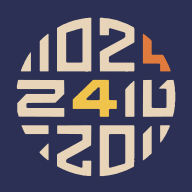
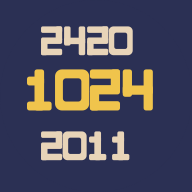
Lay the portal mark out as 2420 / 1024 / 2011.
The circular navy disc stays. The middle 1024 is larger and gold; the cream rows above and below are 2420 and 2011.

diff --git a/game/gamebgp/admin.js b/game/gamebgp/admin.js
@@ -186,7 +186,7 @@ function renderLogin(errorMsg = "") {
     <div class="login-wrap">
       <div class="card login-card">
         <div class="title-row">
-          <img class="site-logo" src="/icons/apps/logo.svg?v=2" width="44" height="44" alt="">
+          <img class="site-logo" src="/icons/apps/logo.svg?v=3" width="44" height="44" alt="">
           <h1>管理后台</h1>
         </div>
         <p class="sub">门户与游戏数据管理。会话 12 小时有效。</p>
@@ -828,7 +828,7 @@ function paintShell() {
     <div class="wrap">
       <div class="topbar">
         <div class="title-row">
-          <img class="site-logo" src="/icons/apps/logo.svg?v=2" width="48" height="48" alt="">
+          <img class="site-logo" src="/icons/apps/logo.svg?v=3" width="48" height="48" alt="">
           <div class="title-text">
             <h1>管理后台</h1>
             <p class="user-line">${esc(state.me.username)}</p>

diff --git a/game/index.html b/game/index.html
@@ -8,7 +8,7 @@
     <meta name="apple-mobile-web-app-status-bar-style" content="default">
     <meta name="apple-mobile-web-app-title" content="1042">
     <link rel="manifest" href="/manifest.webmanifest">
-    <link rel="icon" type="image/svg+xml" href="/icons/apps/logo.svg?v=2">
+    <link rel="icon" type="image/svg+xml" href="/icons/apps/logo.svg?v=3">
     <link rel="icon" type="image/png" sizes="32x32" href="/icons/favicon-32.png">
     <link rel="icon" type="image/png" sizes="192x192" href="/icons/icon-192.png">
     <link rel="apple-touch-icon" href="/icons/apple-touch-icon.png">

diff --git a/game/onesentence/index.html b/game/onesentence/index.html
@@ -8,7 +8,7 @@
     <meta name="apple-mobile-web-app-status-bar-style" content="default">
     <meta name="apple-mobile-web-app-title" content="1042">
     <link rel="manifest" href="/manifest.webmanifest">
-    <link rel="icon" type="image/svg+xml" href="/icons/apps/logo.svg?v=2">
+    <link rel="icon" type="image/svg+xml" href="/icons/apps/logo.svg?v=3">
     <link rel="icon" type="image/png" sizes="32x32" href="/icons/favicon-32.png">
     <link rel="icon" type="image/png" sizes="192x192" href="/icons/icon-192.png">
     <link rel="apple-touch-icon" href="/icons/apple-touch-icon.png">

diff --git a/index.html b/index.html
@@ -9,7 +9,7 @@
     <meta name="apple-mobile-web-app-status-bar-style" content="default">
     <meta name="apple-mobile-web-app-title" content="1042">
     <link rel="manifest" href="/manifest.webmanifest">
-    <link rel="icon" type="image/svg+xml" href="/icons/apps/logo.svg?v=2">
+    <link rel="icon" type="image/svg+xml" href="/icons/apps/logo.svg?v=3">
     <link rel="icon" type="image/png" sizes="32x32" href="/icons/favicon-32.png">
     <link rel="icon" type="image/png" sizes="192x192" href="/icons/icon-192.png">
     <link rel="apple-touch-icon" href="/icons/apple-touch-icon.png">

diff --git a/game/register/index.html b/game/register/index.html
@@ -8,7 +8,7 @@
   <meta name="apple-mobile-web-app-status-bar-style" content="default">
   <meta name="apple-mobile-web-app-title" content="1042">
   <link rel="manifest" href="/manifest.webmanifest">
-  <link rel="icon" type="image/svg+xml" href="/icons/apps/logo.svg?v=2">
+  <link rel="icon" type="image/svg+xml" href="/icons/apps/logo.svg?v=3">
   <link rel="icon" type="image/png" sizes="32x32" href="/icons/favicon-32.png">
   <link rel="icon" type="image/png" sizes="192x192" href="/icons/icon-192.png">
   <link rel="apple-touch-icon" href="/icons/apple-touch-icon.png">

diff --git a/game/gamebgp/index.html b/game/gamebgp/index.html
@@ -5,7 +5,7 @@
   <meta name="viewport" content="width=device-width, initial-scale=1.0, viewport-fit=cover">
   <meta name="robots" content="noindex,nofollow">
   <title>管理后台 · 1024201</title>
-  <link rel="icon" type="image/svg+xml" href="/icons/apps/logo.svg?v=2">
+  <link rel="icon" type="image/svg+xml" href="/icons/apps/logo.svg?v=3">
   <link rel="icon" type="image/png" sizes="192x192" href="/icons/icon-192.png">
   <link rel="apple-touch-icon" href="/icons/apple-touch-icon.png">
   <link rel="stylesheet" href="admin.css?v=16">

diff --git a/sw.js b/sw.js
@@ -1,4 +1,4 @@
-const CACHE = "1042-pwa-v160";
+const CACHE = "1042-pwa-v161";
 const SHELL = [
   "/",
   "/index.html",
@@ -178,6 +178,7 @@ const SHELL = [
   "/icons/apps/login.svg",
   "/icons/apps/logo.svg",
   "/icons/apps/logo.svg?v=2",
+  "/icons/apps/logo.svg?v=3",
   "/icons/weapon/pistol.png",
   "/icons/weapon/ak.png",
   "/icons/weapon/rpg.png",

diff --git a/game/register/auth.js b/game/register/auth.js
@@ -66,7 +66,7 @@ function renderShell() {
       <div id="accountChrome"></div>
     </div>
   <div class="card">
-    <img class="auth-logo" src="/icons/apps/logo.svg?v=2" alt="">
+    <img class="auth-logo" src="/icons/apps/logo.svg?v=3" alt="">
     <h1>注册账户</h1>
     <p class="sub">一票通</p>
     <div class="tabs">
